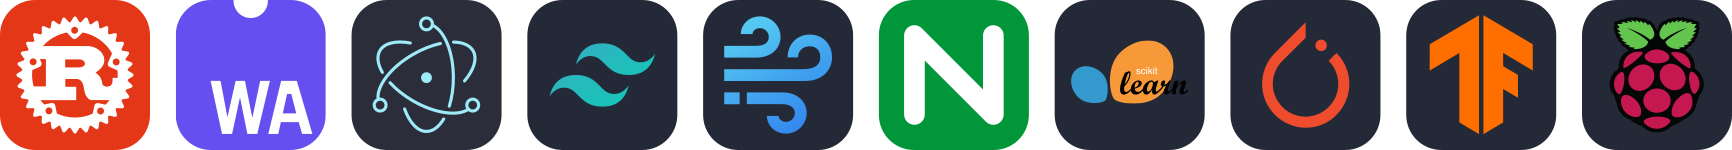
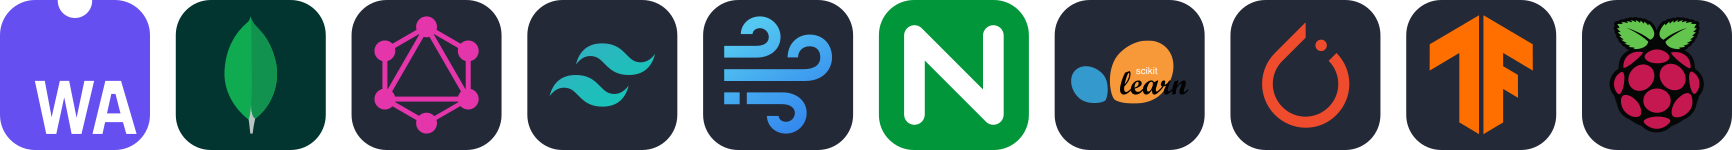
📝 update

Changed region(s): [[0.0, 0.0, 0.2806, 1.0]]

diff --git a/README.md b/README.md
@@ -1,6 +1,6 @@
 <!-- 
-1. https://skillicons.dev/iconsより、リクエスト負荷軽減のため、svg画像をDL
-2. https://convertio.co/ja/svg-webp/より、svgをwebpへ変換(svgも外部にリクエストするため)
+1. https://skillicons.dev/icons より、リクエスト負荷軽減のため、svg画像をDL
+2. https://convertio.co/ja/svg-webp/ より、svgをwebpへ変換(svgも外部にリクエストするため)
 -->
 
 # My Skills
@@ -12,12 +12,22 @@ a few more.
 
 # Studying Now
 
-<!-- https://skillicons.dev/icons?i=spring,go,mongodb,react,nextjs,prisma,sass,graphql,materialui,docker,kubernetes,kali,linux, -->
+<!-- https://skillicons.dev/icons?i=linux,kali,docker,kubernetes,rust,go, -->
 [![Studying Now](./images/now.webp)](https://skillicons.dev)
+
+# Study Canceled
+
+<!-- https://skillicons.dev/icons?i=spring,react,nextjs,prisma,sass,materialui, -->
+[![Study Canceled](./images/canceled.webp)](https://skillicons.dev)
+
+- キャンセルした理由
+  - 新規需要の低迷(競合多数)
+  - 破壊的変更による堅牢性の懸念や、学習コストの増加
+  - 飽和状態のスキル
 
 # Future Study
 
-<!-- https://skillicons.dev/icons?i=rust,wasm,electron,tailwind,windicss,nginx,sklearn,pytorch,tensorflow,raspberrypi, -->
+<!-- https://skillicons.dev/icons?i=wasm,mongodb,graphql,tailwind,windicss,nginx,sklearn,pytorch,tensorflow,raspberrypi, -->
 [![Future Study](./images/future.webp)](https://skillicons.dev)
 
 # My User Icon
